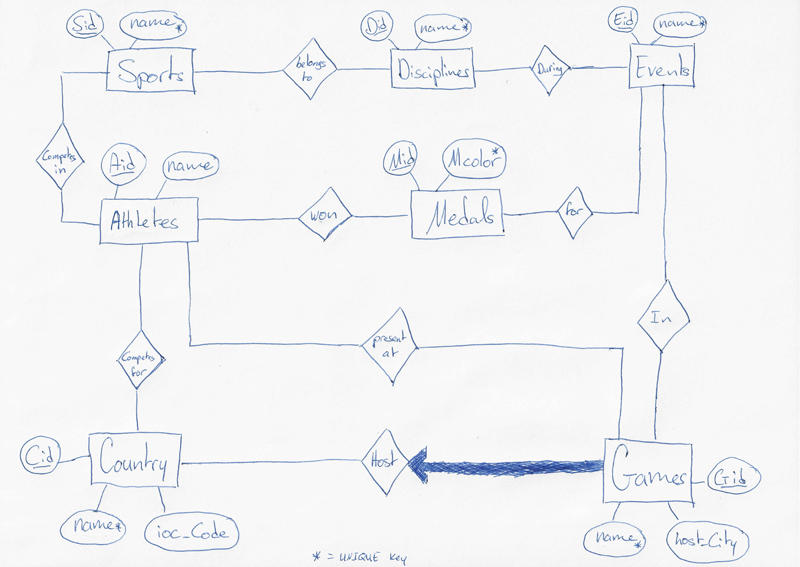
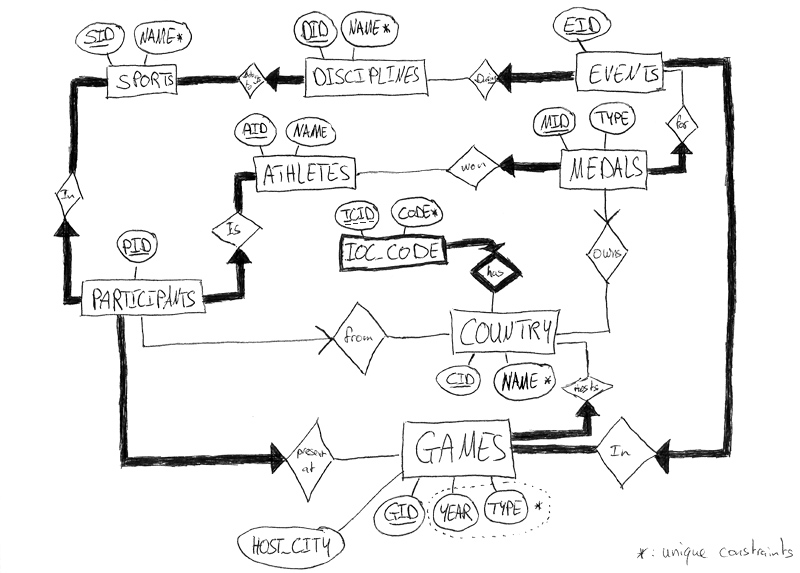
Final ER, IOC_CODE -> weak entity

diff --git a/rendu.tex b/rendu.tex
@@ -85,6 +85,10 @@
 \section{Remarks}
 
 \begin{itemize}
+	\item exactly one : events -> discipline, events -> games
+	\item 1 athlete comes twice -> 1 athlete, 2 participants
+	\item comment all at least
+	\item country doe not necessarily have a participant
 	\item athlete (why it's useful)
 	\item countries, sports, disciplines, events, games : unique name
 	\item medal - country
